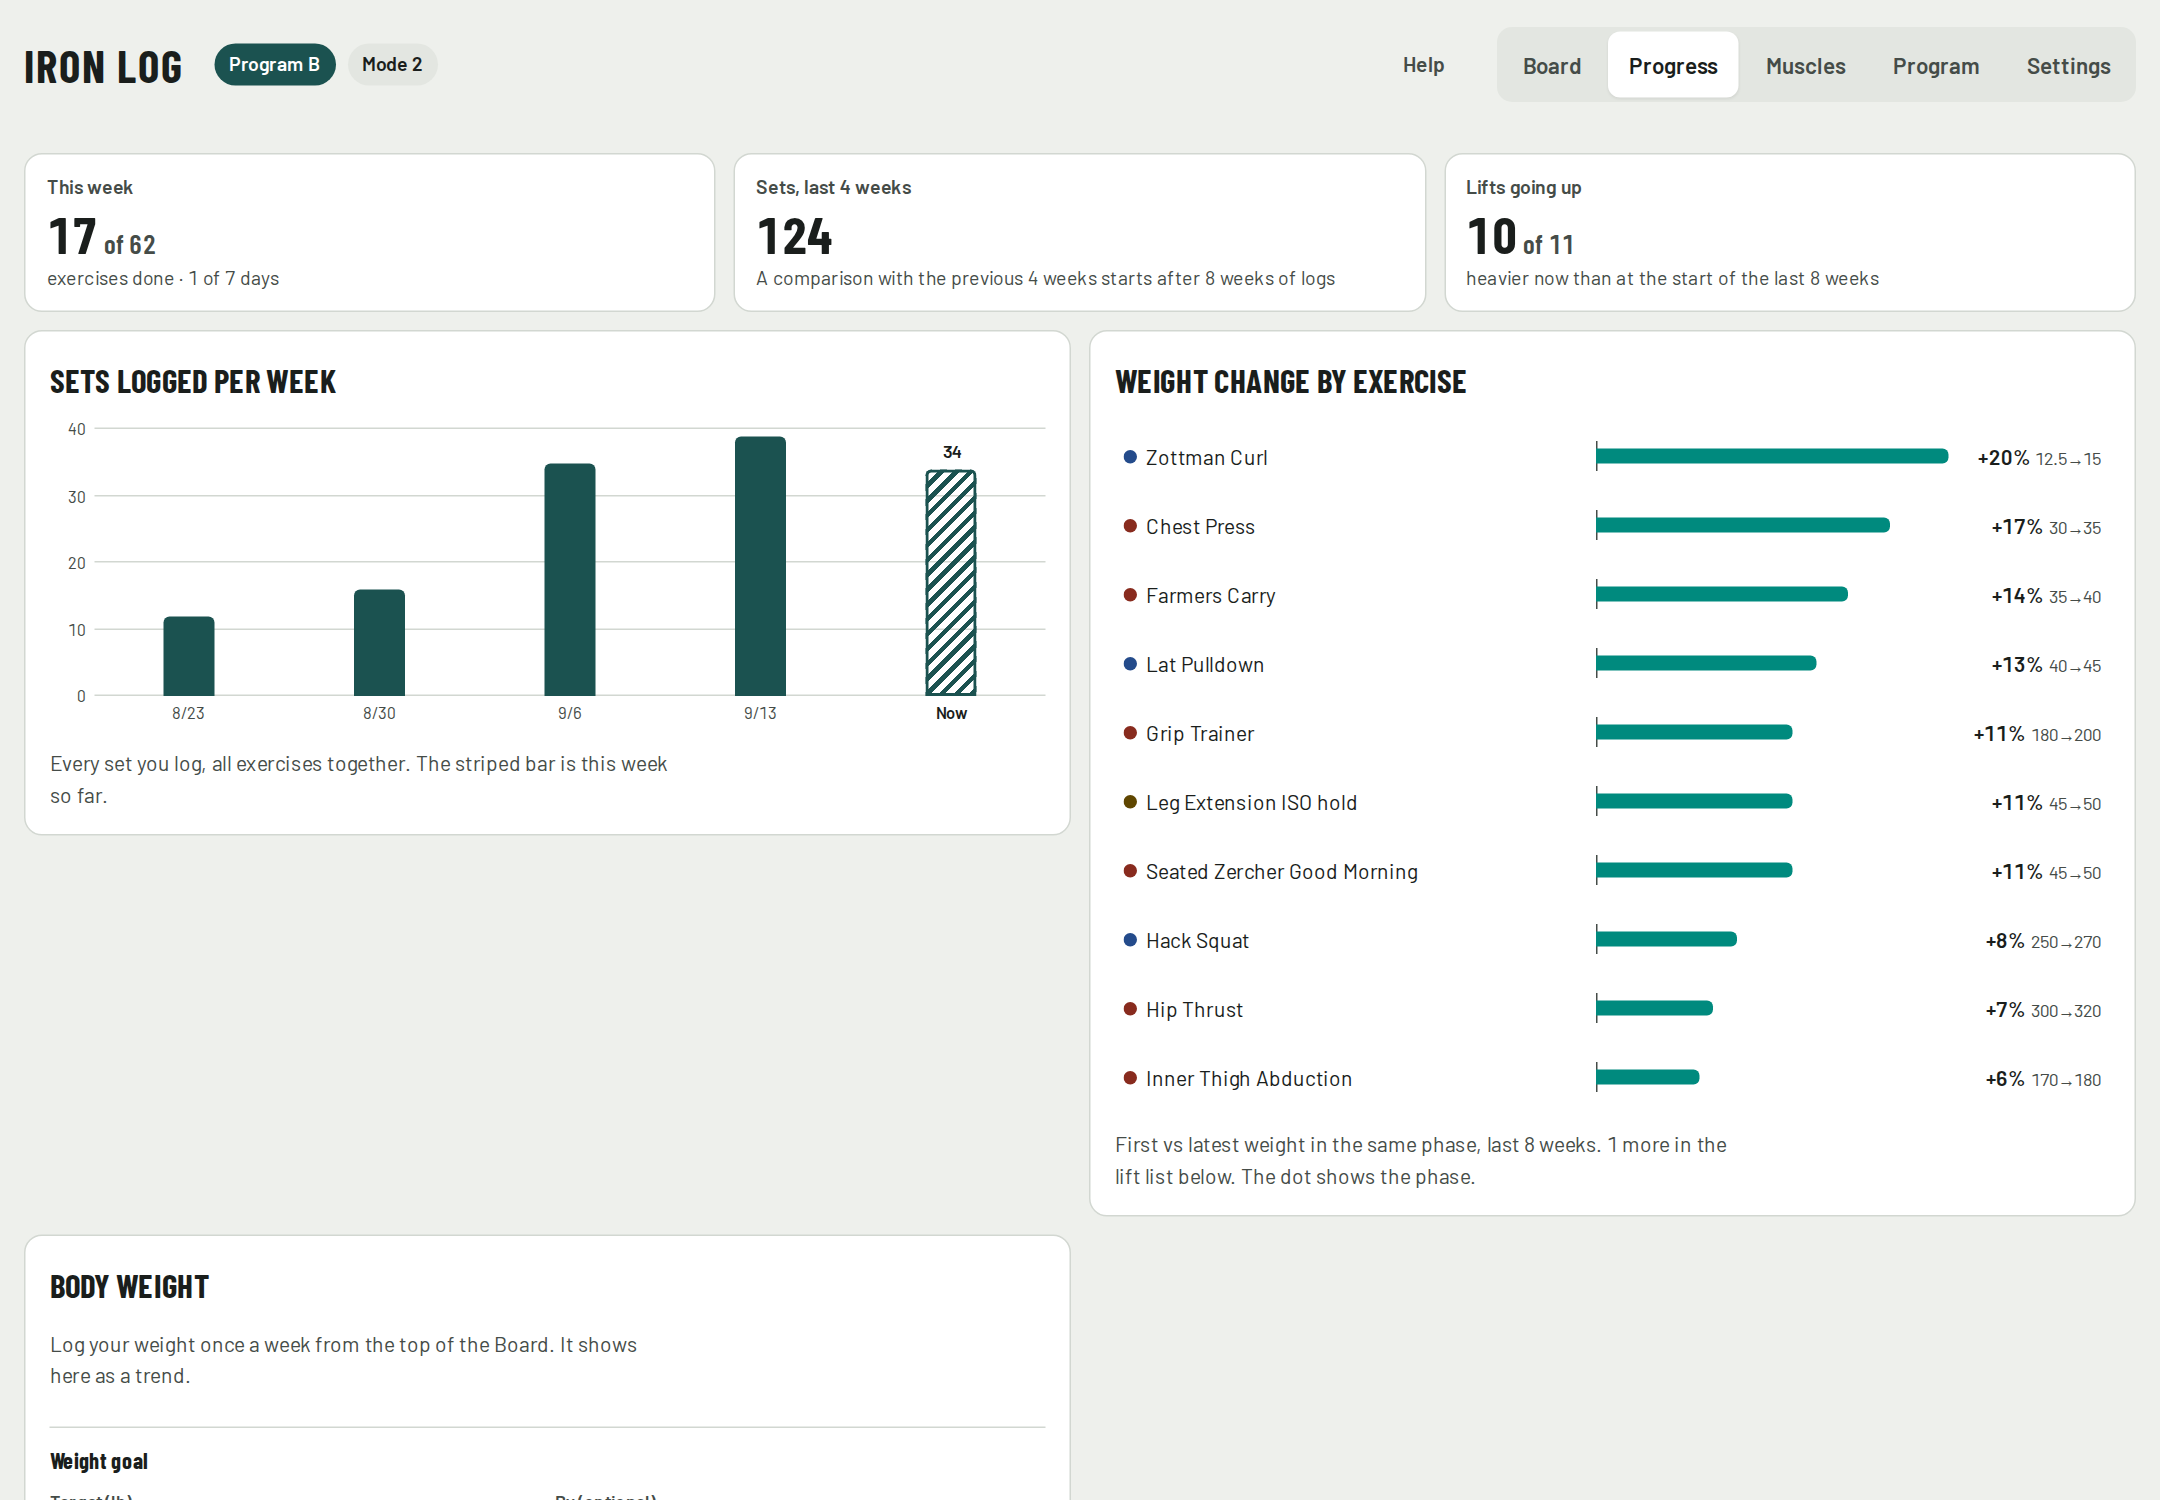
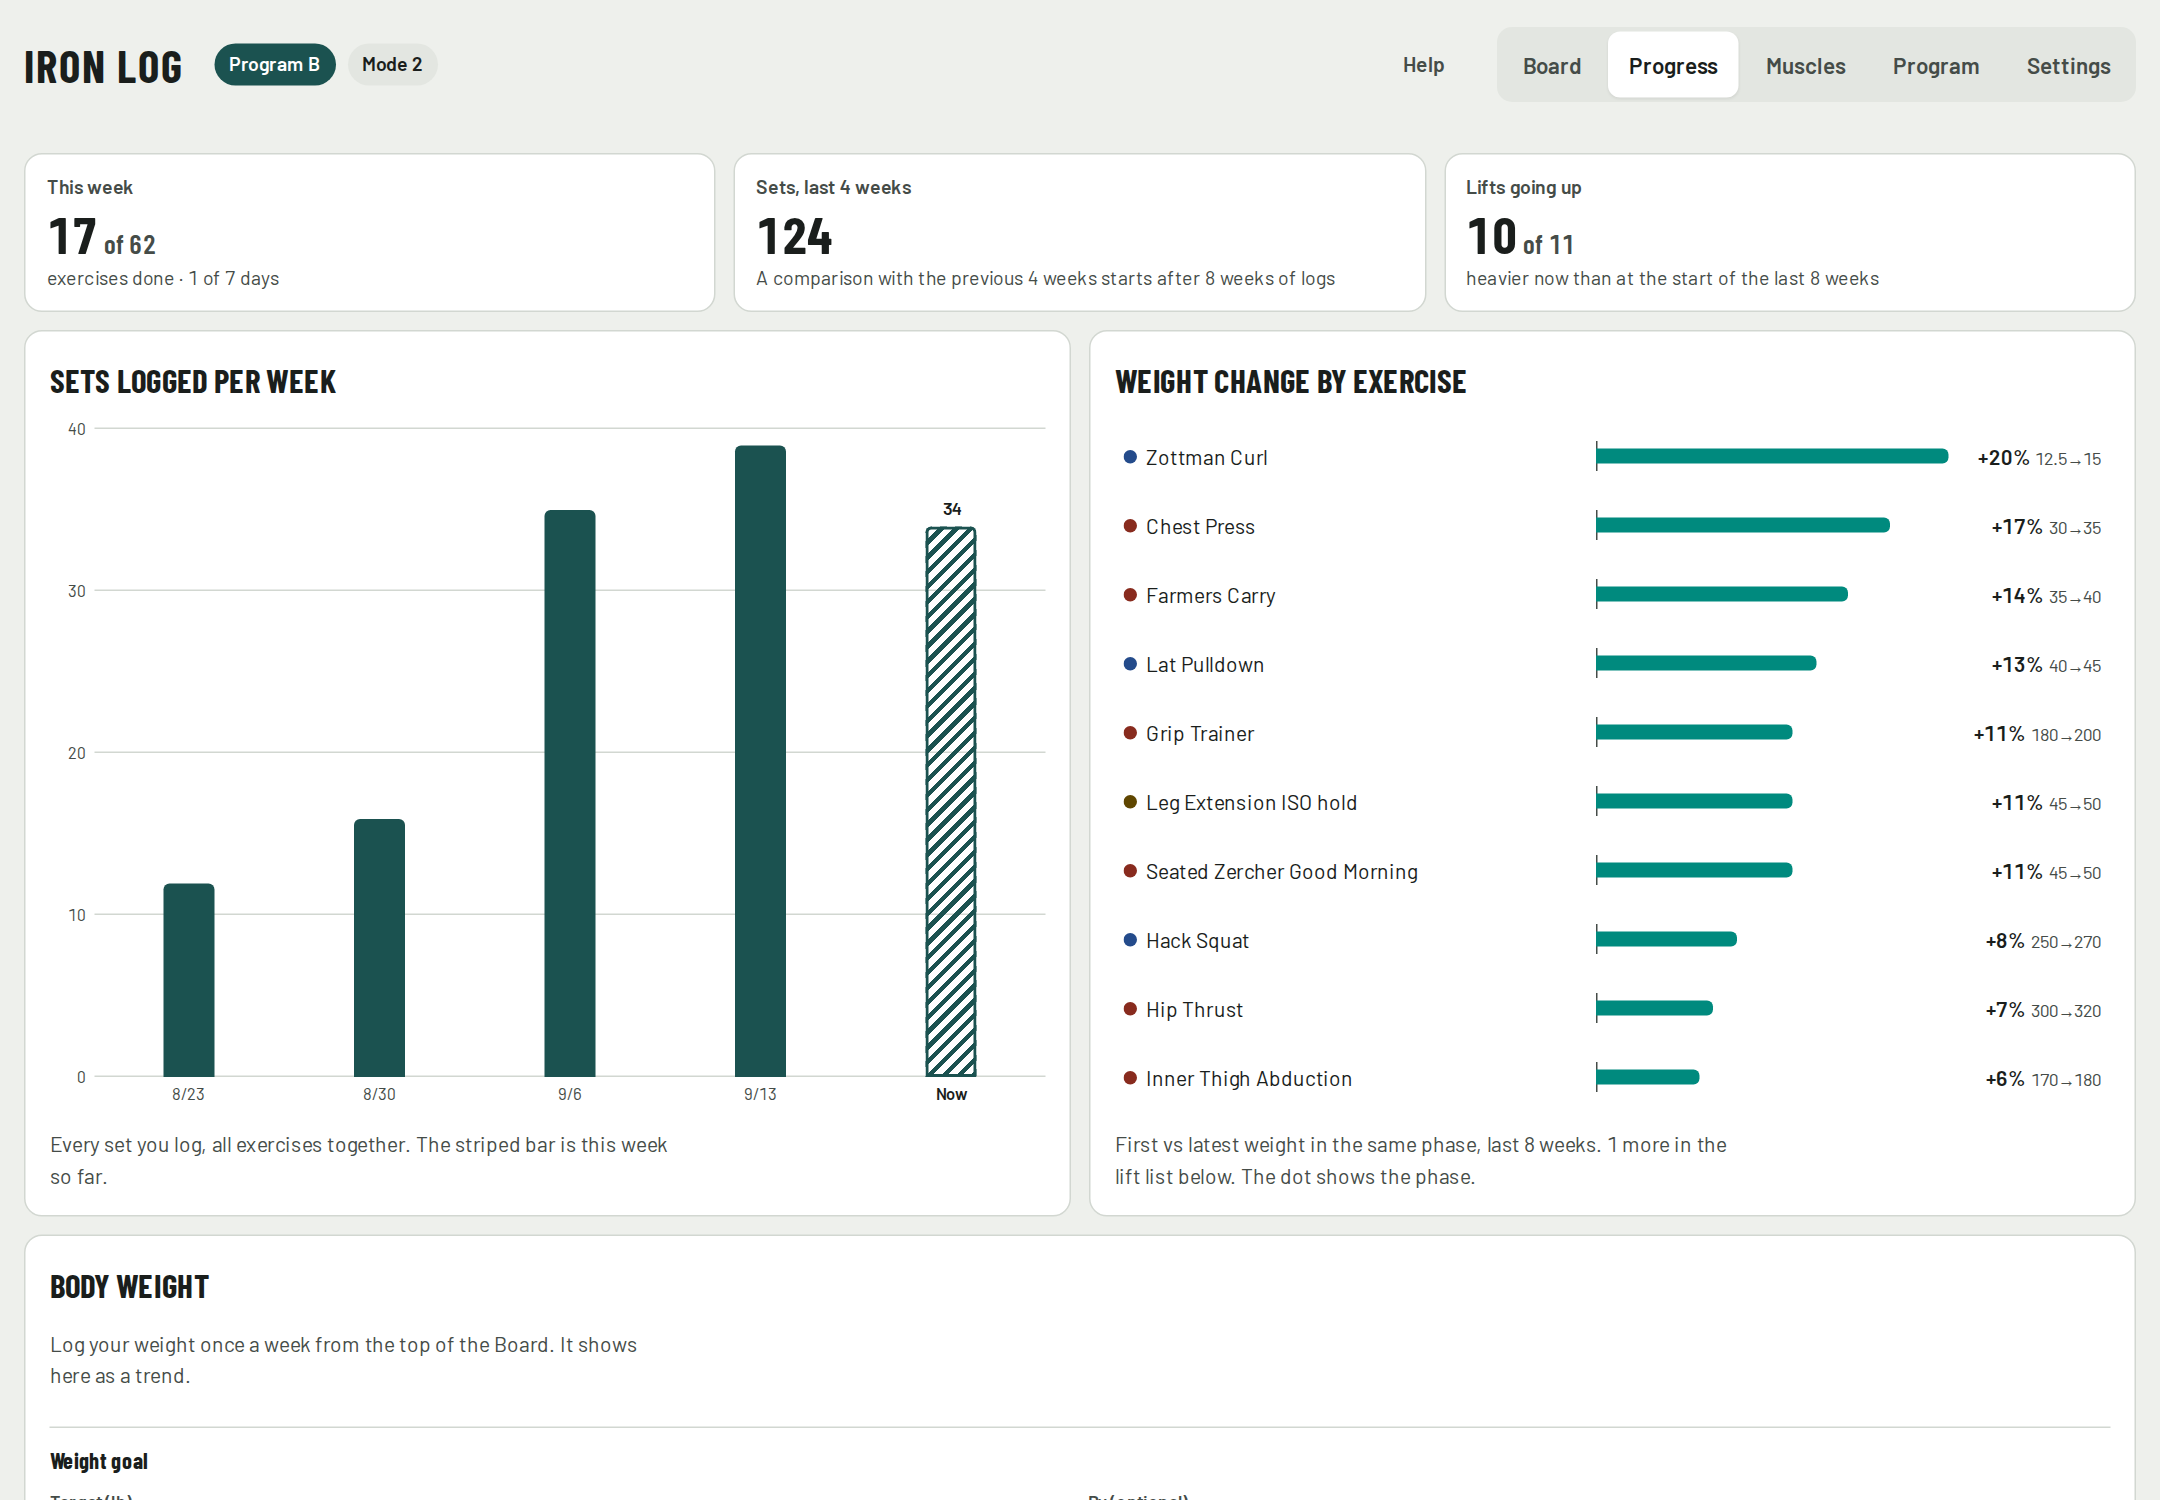
Tidy Progress and Settings layouts (#51)
* Tidy Progress and Settings layouts

Settings: two balanced columns instead of ragged auto-fit panels, 1RM table full width.
Progress: body weight spans full width, sets chart fills its panel, heatmap and weekly history use the available width and show all 7 days on one line.

* Update README screenshots

---------

diff --git a/src/styles.css b/src/styles.css
@@ -128,10 +128,11 @@ body.timing{padding-bottom:130px}
 .kpi .kv{font-family:"Barlow Condensed","Barlow Condensed Fallback","Arial Narrow",sans-serif;font-size:34px;font-weight:700;line-height:1.1;color:var(--ink)}
 .kpi .kv small{font-size:18px;color:var(--muted);font-weight:600}
 .kpi .ks{font-size:13px;color:var(--muted)}
-.tgrid{display:grid;grid-template-columns:repeat(2,minmax(0,1fr));gap:12px;margin-bottom:12px;align-items:start}
+.tgrid{display:grid;grid-template-columns:repeat(2,minmax(0,1fr));gap:12px;margin-bottom:12px;align-items:stretch}
+.tgrid>:nth-child(3){grid-column:1/-1}
 .tchart h2{margin:0}
 .heat-panel{margin-bottom:16px}
-.bars{position:relative;height:200px;padding-left:30px;margin-top:4px}
+.bars{position:relative;height:200px;flex:1;min-height:200px;padding-left:30px;margin-top:4px}
 .bgrid{position:absolute;left:0;right:0;top:0;bottom:22px;pointer-events:none}
 .bgrid span{position:absolute;left:30px;right:0;border-top:1px solid var(--line)}
 .bgrid b{position:absolute;right:calc(100% + 6px);top:-8px;font-size:11px;font-weight:400;color:var(--muted)}
@@ -158,7 +159,7 @@ body.timing{padding-bottom:130px}
 .chg.mixed .chbar i.flat{left:calc(50% - 3px)}
 .chv{font-size:14px;font-weight:600;text-align:right;white-space:nowrap}
 .chv small{font-weight:400;color:var(--muted);font-size:12px}
-.heat{display:grid;gap:2px;align-items:center;margin-top:4px}
+.heat{display:grid;gap:3px;align-items:center;margin-top:4px;max-width:820px}
 .heat .hx{font-size:11px;color:var(--muted);text-align:center;white-space:nowrap}
 .heat .hn{font-size:13px;white-space:nowrap;overflow:hidden;text-overflow:ellipsis;padding-right:8px}
 .heat .hn.none{color:var(--muted)}
@@ -183,9 +184,9 @@ body.timing{padding-bottom:130px}
   .chn{grid-area:n} .chv{grid-area:v} .chbar{grid-area:b}
 }
 .weeks{display:flex;flex-direction:column;gap:6px}
-.wkrow{display:grid;grid-template-columns:96px 30px minmax(0,200px) auto;gap:10px;align-items:center;font-size:14px}
+.wkrow{display:grid;grid-template-columns:96px 30px minmax(0,260px) auto;gap:10px;align-items:center;font-size:14px}
 .wkdate small{color:var(--muted);font-size:11px;display:block}
-.cells{display:grid;grid-template-columns:repeat(6,minmax(14px,28px));gap:3px}
+.cells{display:grid;grid-template-columns:repeat(7,minmax(0,1fr));gap:3px}
 .cells i,.cleg{display:block;height:14px;border-radius:3px;background:var(--sunk)}
 .cleg{display:inline-block;width:12px;height:12px;vertical-align:-1px;margin-left:6px}
 .cells i.c1,.cleg.c1{background:color-mix(in srgb, var(--accent) 35%, var(--sunk))}
@@ -364,7 +365,11 @@ body.timing{padding-bottom:130px}
 .empty{color:var(--muted);padding:24px;text-align:center;background:var(--surface);border-radius:12px;border:1px dashed var(--line)}
 
 /* Settings */
-.settings{display:grid;gap:16px;grid-template-columns:repeat(auto-fit,minmax(min(320px,100%),1fr));align-items:start}
+.settings{display:grid;gap:16px;grid-template-columns:repeat(2,minmax(0,1fr));align-items:start}
+.settings .scol{display:flex;flex-direction:column;gap:16px;min-width:0}
+.settings .wide{grid-column:1/-1}
+@media (max-width:900px){.settings{grid-template-columns:minmax(0,1fr)}}
+.rmtbl td:nth-child(3){width:110px}
 .panel{background:var(--surface);border:1px solid var(--line);border-radius:12px;padding:16px;display:flex;flex-direction:column;gap:12px}
 .panel h2{margin:0;font-size:22px;font-weight:700;text-transform:uppercase}
 .ghbk{margin-top:16px;padding-top:12px;border-top:1px solid var(--line)}.ghbk h3{margin:0 0 4px;font-size:18px}.ghbk input[type=password]{flex:1 1 220px;min-width:0}.ghbk ol{padding-left:20px}
@@ -384,6 +389,7 @@ body.timing{padding-bottom:130px}
 .tbl th{font-size:11px;text-transform:uppercase;letter-spacing:.06em;color:var(--muted)}
 .tbl input{width:84px;border:1px solid var(--field-line);background:var(--bg);border-radius:6px;padding:5px 6px;font-size:14px;color:var(--ink)}
 .tbl input.wide{width:130px}
+.tbl td:first-child{min-width:110px}
 @media (prefers-reduced-motion:reduce){*{transition:none!important}}
 @media (max-width:700px){
   body{padding-bottom:calc(130px + env(safe-area-inset-bottom, 0px))}

diff --git a/src/components/settings/Settings.jsx b/src/components/settings/Settings.jsx
@@ -296,7 +296,7 @@ function RmPanel() {
   const all = [...slotsFor(programs.A), ...slotsFor(programs.B)];
   const weighted = allExIds(cfg).filter(id => all.some(s => s.items.some(i => i.ex === id && i.w != null)));
   return (
-    <section className="panel" style={{ gridColumn: '1/-1' }}>
+    <section className="panel wide">
       <h2>1-rep maxes</h2>
       <p>Enter a one-rep max (1RM, the most you can lift once) to switch that exercise's target from the program weight to a phase-based weight. Leave blank to keep the program weight.</p>
       <div className="tbl">
@@ -325,14 +325,18 @@ export default function Settings() {
   const importCount = useAppStore(s => s.importCount);
   return (
     <div className="settings">
-      <ModePanel />
-      <AppearancePanel />
-      <DevicePanel />
-      <PhasePanel />
-      <DataPanel key={importCount} />
-      <BackupPanel />
+      <div className="scol">
+        <ModePanel />
+        <PhasePanel />
+        <AppearancePanel />
+        <DevicePanel />
+      </div>
+      <div className="scol">
+        <DataPanel key={importCount} />
+        <BackupPanel />
+        <ErasePanel />
+      </div>
       <RmPanel />
-      <ErasePanel />
     </div>
   );
 }

diff --git a/src/components/progress/Trends.jsx b/src/components/progress/Trends.jsx
@@ -223,7 +223,7 @@ function MuscleHeat({ keys }) {
               {M_KEYS.map(m => <tr key={m}><th scope="row">{MUSCLES[m].n}</th>{K.map(k => <td key={k}>{data[m][k] ? fmtSets(data[m][k]) : '0'}</td>)}</tr>)}
             </tbody>
           </table></div>
-          <div className="heat" aria-hidden="true" style={{ gridTemplateColumns: `minmax(96px,160px) repeat(${K.length},minmax(0,72px))` }}>
+          <div className="heat" aria-hidden="true" style={{ gridTemplateColumns: `minmax(96px,160px) repeat(${K.length},minmax(0,1fr))` }}>
             <span />
             {K.map((k, i) => <span key={k} className={`hx${(K.length - 1 - i) % 2 ? ' alt' : ''}`}>{k === thisSun ? 'Now' : mdLabel(k)}</span>)}
             {M_KEYS.flatMap(m => {
